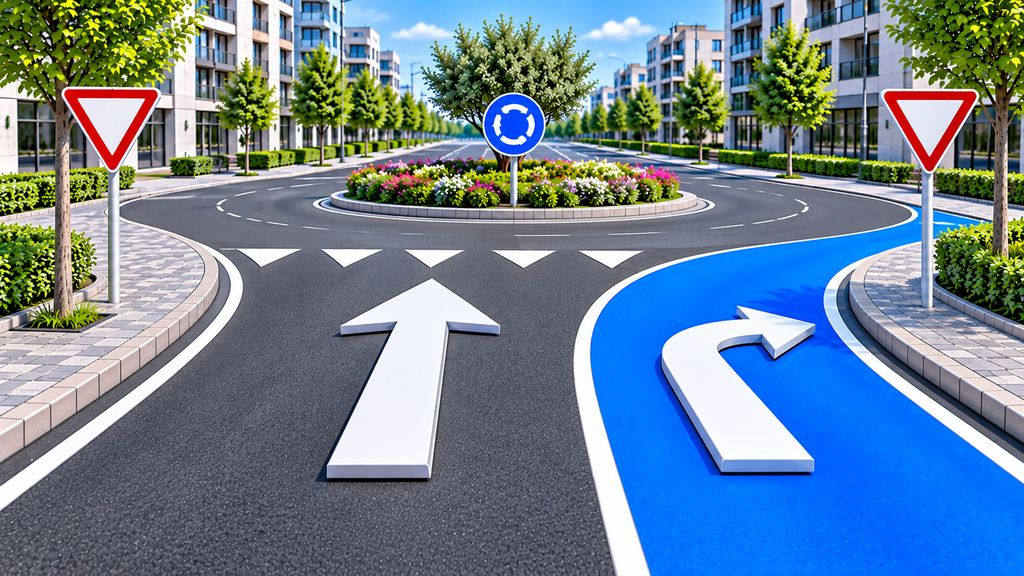
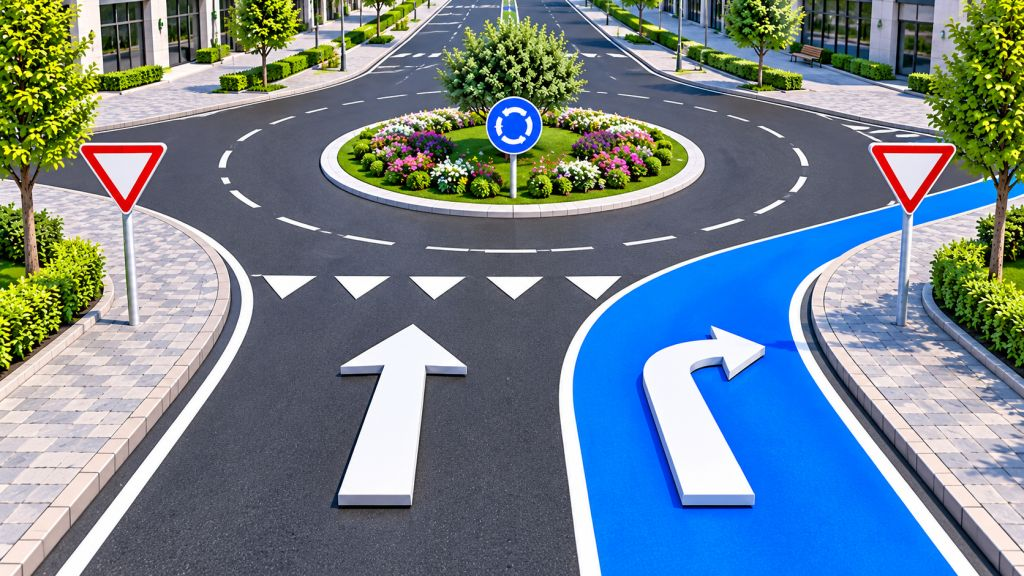
Rotondas: imagenes nuevas; autopista con carril azul, carretera con carril blanco y flechas negras - v265
Claude-Session: https://claude.ai/code/session_014o7jhR7AbyYFNWEx8K5GgW

diff --git a/index.html b/index.html
@@ -588,7 +588,7 @@ body.noche #radEd .chip{background:#2d353d;border-color:#3a434c;color:#e8edf2} b
   <button class="ajuste" id="btnFluidez" style="background:#27384a">📊 Medir fluidez al conducir (60 s)</button>
   <div id="fluDiag" style="font-size:11px;opacity:.9;padding:2px 14px;white-space:pre-wrap"></div>
   <button class="ajuste on" id="btnWake">💡 Pantalla siempre encendida: ON</button>
-  <div class="seccion">Versión v264 · AUTOPISTA (app única, 3D apagado por defecto)</div>
+  <div class="seccion">Versión v265 · AUTOPISTA (app única, 3D apagado por defecto)</div>
   <div class="info" style="font-size:10px;opacity:.6;padding:2px 14px 8px">Modelo 3D Tesla Supercharger: «Tesla Charging Station» de Sketcher (Sketchfab), licencia CC BY 4.0.</div>
 </div>
 
@@ -2398,12 +2398,13 @@ const FOTOS_CARRIL_CARR = {
   izquierda:{ '2|0':'nv-salida-2c-1-izq', '3|0':'nv-salida-3c-1-izq', '3|0,1':'nv-salida-3c-2-izq' },
   frente:{ '2|1':'nv-frente-2c-1-der', '2|0':'nv-frente-2c-1-izq', '3|2':'nv-frente-3c-1-der', '3|0':'nv-frente-3c-1-izq', '3|1,2':'nv-frente-3c-2-der', '3|0,1':'nv-frente-3c-2-izq' }
 };
-/* v261: rotondas (sin espejo; autopista y carretera usan las mismas): salida 1, 2, 3; salida 4 o más y cambio de sentido, la de cambio de sentido */
-const FOTOS_ROTONDA = { 1:'nv-rot-salida-1', 2:'nv-rot-salida-2', 3:'nv-rot-salida-3', U:'nv-rot-cambio-sentido' };
+/* v265: rotondas (sin espejo). Autopista/autovía: carril azul (nv-rot-*). Carretera normal: carril blanco con flechas negras (nv-rotc-*).
+   Salida 1, 2, 3; salida 4 o más y cambio de sentido usan la de cambio de sentido */
+const FOTOS_ROTONDA = { 1:'salida-1', 2:'salida-2', 3:'salida-3', U:'cambio-sentido' };
 function fotoCarrilPara(s){
   if(s&&s.maneuver&&(s.maneuver.type==='roundabout'||s.maneuver.type==='rotary')){
     const ex=parseInt(s.maneuver.exit,10)||1;
-    return 'carriles/'+FOTOS_ROTONDA[(s.maneuver.modifier==='uturn'||ex>=4)?'U':ex]+'.jpg';
+    return 'carriles/'+(s.hw?'nv-rot-':'nv-rotc-')+FOTOS_ROTONDA[(s.maneuver.modifier==='uturn'||ex>=4)?'U':ex]+'.jpg';
   }
   if(!s||!s.maneuver||s.maneuver.type!=='turn'||!Array.isArray(s.lanes)) return null;
   const n=s.lanes.length, act=[]; s.lanes.forEach((l,i)=>{ if(l&&l.lane&&l.lane.active) act.push(i); });

diff --git a/sw.js b/sw.js
@@ -1,6 +1,6 @@
 /* Service worker mínimo: hace la app instalable y la abre aunque no haya red.
    Red primero (siempre carga la última versión de index.html); caché solo como respaldo. Teselas y APIs no se tocan. */
-const V = 'autoboard-v136';
+const V = 'autoboard-v137';
 const BASE = ['./','./index.html','./manifest.webmanifest','./icon-192.png','./icon-512.png'];
 self.addEventListener('install', e => { e.waitUntil(caches.open(V).then(c => c.addAll(BASE)).catch(()=>{})); self.skipWaiting(); });
 self.addEventListener('activate', e => { e.waitUntil(caches.keys().then(ks => Promise.all(ks.filter(k=>k!==V).map(k=>caches.delete(k)))).then(()=>self.clients.claim())); });
